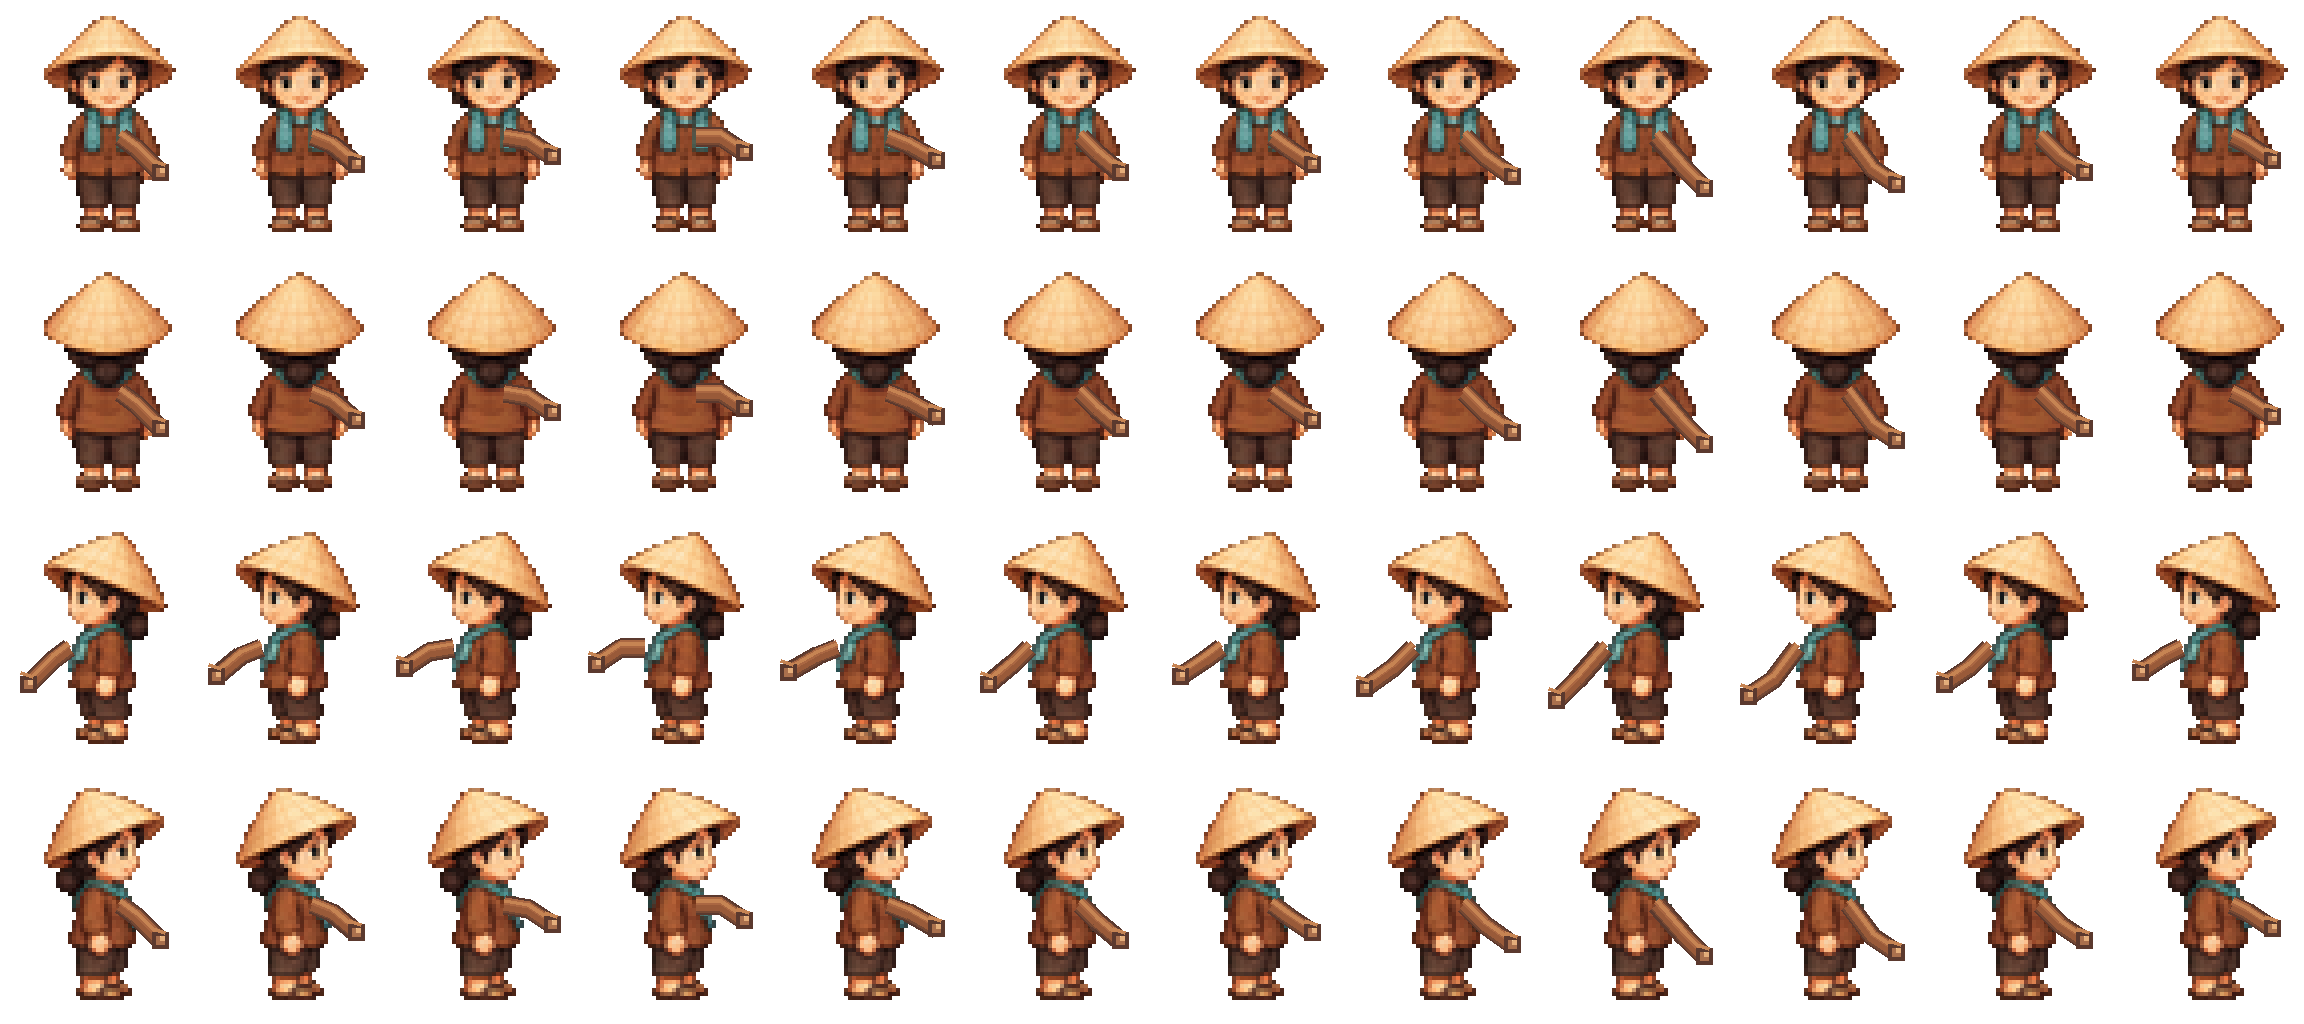
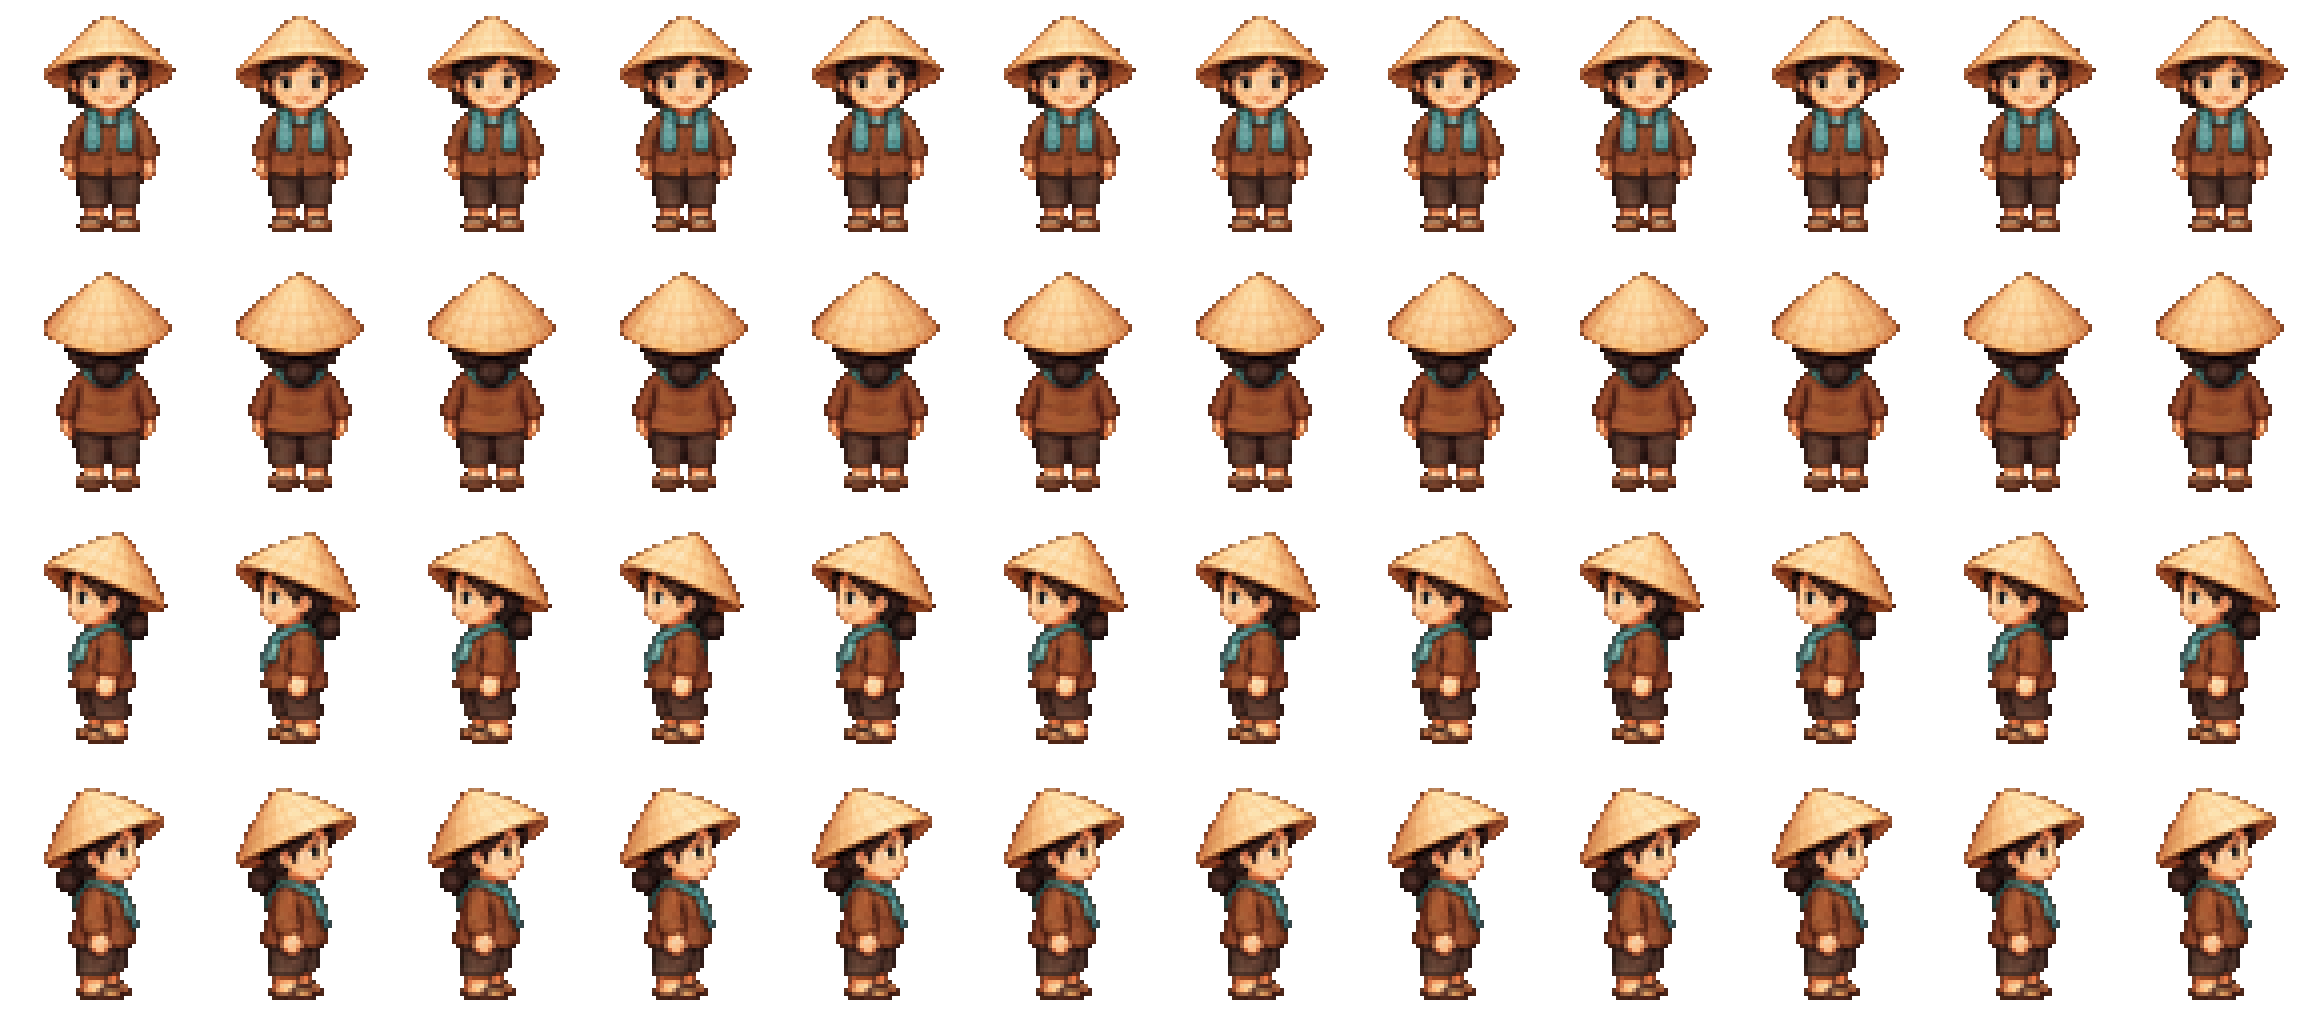
add them hanh dong cho tưới cây, thu vạt nuôi level 4

diff --git a/scripts/generate-farm-action-character-atlases.py b/scripts/generate-farm-action-character-atlases.py
@@ -1,7 +1,7 @@
-"""Build six-frame watering and harvest pose atlases from approved farmer sprites."""
+"""Build safe action atlases from approved sprites without painting duplicate limbs."""
 from pathlib import Path
 
-from PIL import Image, ImageDraw
+from PIL import Image
 
 ROOT = Path(__file__).resolve().parents[1]
 CELL = (48, 64)
@@ -18,20 +18,6 @@ SOURCES = {
 SOURCE_OUTPUT = ROOT / "docs/assets/farmer-action-poses-v1-source"
 RUNTIME_OUTPUT = ROOT / "public/pixel/farmer-action-poses-v1"
 
-PALETTES = {
-    "female": {
-        "ink": "#5b392e", "shade": "#754833", "mid": "#995a39",
-        "cloth": "#aa6742", "light": "#c68453", "skin_ink": "#aa704d",
-        "skin": "#e4ad7a", "skin_light": "#f3cc96",
-    },
-    "male": {
-        "ink": "#263b38", "shade": "#31534b", "mid": "#456a5d",
-        "cloth": "#557969", "light": "#78927a", "skin_ink": "#a97655",
-        "skin": "#e1ab7a", "skin_light": "#f1ca95",
-    },
-}
-
-
 def load_bases(avatar):
     sheet = Image.open(SOURCES[avatar]).convert("RGBA")
     bases = []
@@ -44,56 +30,14 @@ def load_bases(avatar):
     return bases
 
 
-def frame_arm(action, index):
-    if action == "water":
-        elbow = ((34, 37), (35, 36), (36, 35), (36, 34), (35, 36), (34, 38))[index]
-        hand = ((40, 43), (41, 41), (42, 39), (42, 38), (42, 40), (40, 43))[index]
-    else:
-        elbow = ((34, 37), (35, 39), (37, 42), (36, 42), (35, 39), (34, 36))[index]
-        hand = ((40, 41), (42, 44), (42, 47), (42, 46), (41, 43), (40, 40))[index]
-    # The same reachable hand path is mirrored for the left-facing profile.
-    return [(30, 34), elbow, hand]
-
-
-def draw_arm(layer, points, palette):
-    scale = SOURCE_SCALE
-    p = palette
-    points = [(x * scale, y * scale) for x, y in points]
-    draw = ImageDraw.Draw(layer)
-    # A stepped outline, sleeve shade, warm cloth ramp, and a single light seam.
-    draw.line(points, fill=p["ink"], width=5 * scale, joint="curve")
-    draw.line(points, fill=p["shade"], width=4 * scale, joint="curve")
-    draw.line(points, fill=p["mid"], width=3 * scale, joint="curve")
-    draw.line([(x, y - scale) for x, y in points], fill=p["cloth"], width=2 * scale, joint="curve")
-    draw.line([(x, y - scale) for x, y in points], fill=p["light"], width=scale, joint="curve")
-
-    hx, hy = points[-1]
-    # Cuff overlaps the palm so the hand reads as gripping the tool or basket rim.
-    draw.rectangle((hx - 2 * scale, hy - 2 * scale, hx + 2 * scale, hy + 2 * scale), fill=p["ink"])
-    draw.rectangle((hx - scale, hy - scale, hx + scale, hy + scale), fill=p["skin_ink"])
-    draw.rectangle((hx, hy - scale, hx + scale, hy), fill=p["skin"])
-    draw.point((hx, hy - scale), fill=p["skin_light"])
-    # A short cuff glint keeps the sleeve distinct from the skin at runtime size.
-    draw.line([(hx - 2 * scale, hy - 3 * scale), (hx + scale, hy - 2 * scale)], fill=p["light"], width=scale)
-
-
 def build_avatar(avatar):
     source_atlas = Image.new("RGBA", (ATLAS_COLUMNS * CELL[0] * SOURCE_SCALE,
                                        DIRECTIONS * CELL[1] * SOURCE_SCALE))
     bases = load_bases(avatar)
     for direction, base in enumerate(bases):
-        for action_index, action in enumerate(("water", "harvest")):
-            for frame in range(FRAMES_PER_ACTION):
-                layer = Image.new("RGBA", base.size)
-                points = frame_arm(action, frame)
-                if direction == 2:
-                    points = [(CELL[0] - 1 - x, y) for x, y in points]
-                draw_arm(layer, points, PALETTES[avatar])
-                pose = base.copy()
-                pose.alpha_composite(layer)
-                col = action_index * FRAMES_PER_ACTION + frame
-                source_atlas.alpha_composite(pose, (col * CELL[0] * SOURCE_SCALE,
-                                                     direction * CELL[1] * SOURCE_SCALE))
+        for col in range(ATLAS_COLUMNS):
+            source_atlas.alpha_composite(base, (col * CELL[0] * SOURCE_SCALE,
+                                                 direction * CELL[1] * SOURCE_SCALE))
 
     source_atlas.save(SOURCE_OUTPUT.with_name(SOURCE_OUTPUT.name + f"-{avatar}.png"), optimize=True)
     runtime = source_atlas.resize((ATLAS_COLUMNS * CELL[0] * RUNTIME_SCALE,
